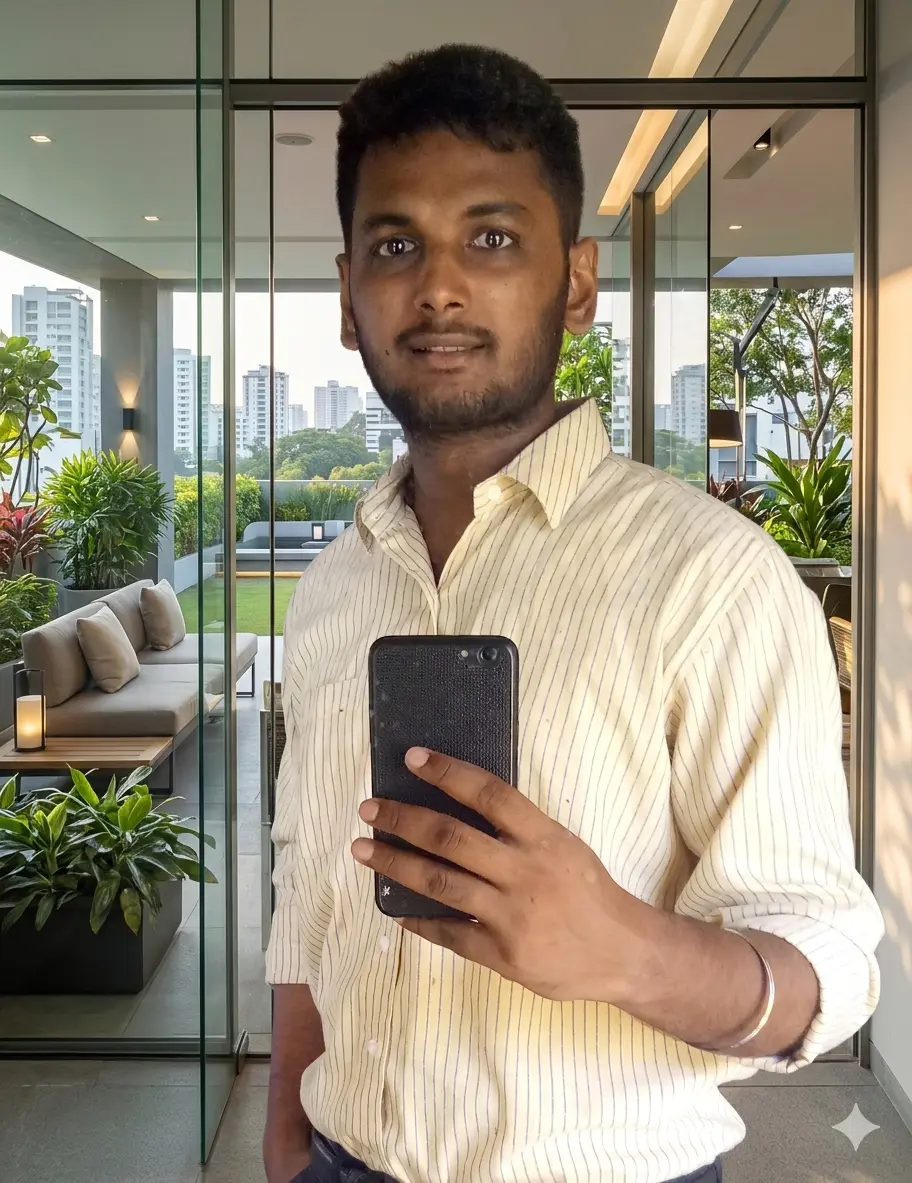
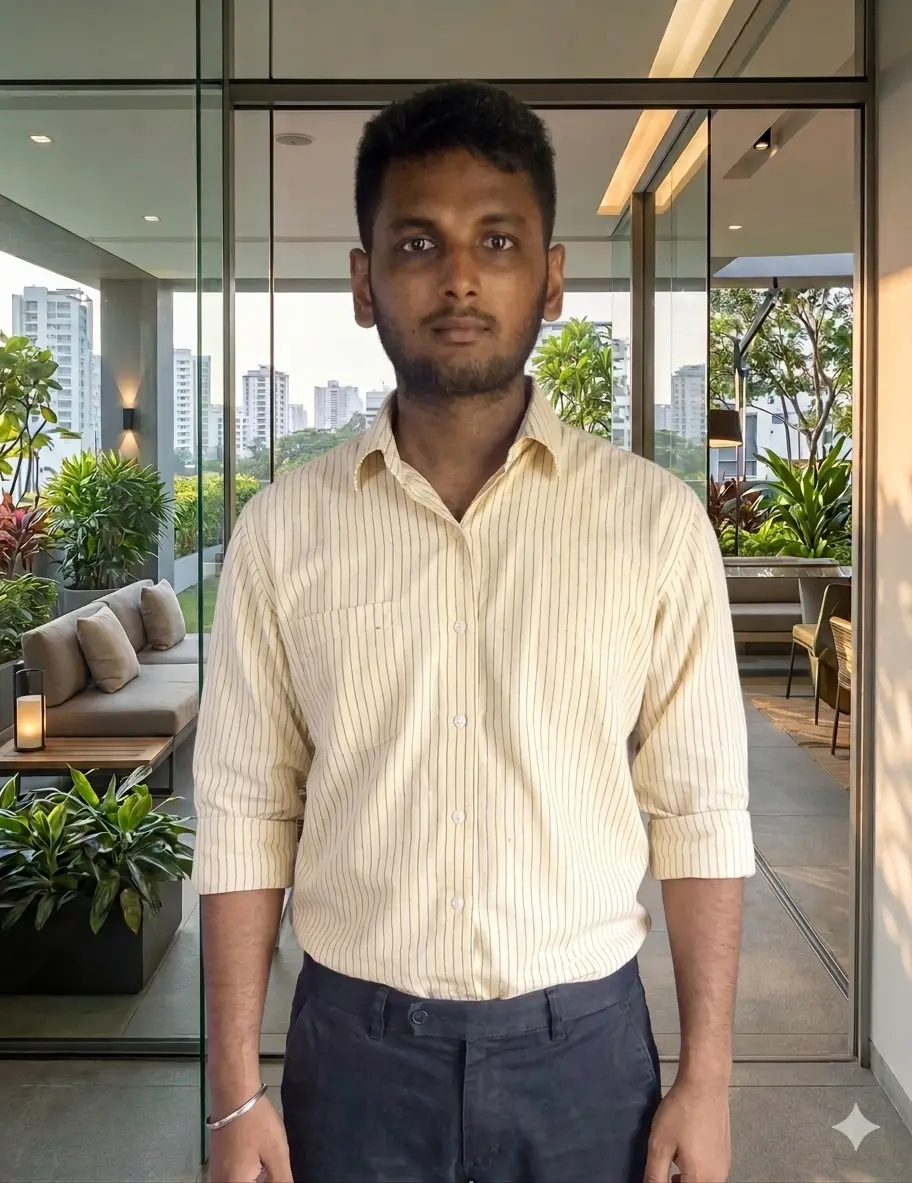
fix: team image updated

diff --git a/components/BrandCarousel.tsx b/components/BrandCarousel.tsx
@@ -140,7 +140,7 @@ const brandLogos = [
   "/branding/godrej.png",
 ];
 
-export default function BrandCarousel({ speed = 0.5 }: { speed?: number }) {
+export default function BrandCarousel({ speed = 0.8 }: { speed?: number }) {
   const trackRef = useRef<HTMLDivElement | null>(null);
   const animationRef = useRef<number | null>(null);
   const offsetRef = useRef(0);
@@ -213,8 +213,8 @@ export default function BrandCarousel({ speed = 0.5 }: { speed?: number }) {
           aria-label="Brand partners carousel"
         >
           {/* Fade edges */}
-          <div className="pointer-events-none absolute left-0 top-0 h-full w-24 bg-gradient-to-r from-[#0a0a0a] to-transparent z-10" />
-          <div className="pointer-events-none absolute right-0 top-0 h-full w-24 bg-gradient-to-l from-[#0a0a0a] to-transparent z-10" />
+          <div className="pointer-events-none absolute left-0 top-0 h-full w-16 md:w-24 bg-gradient-to-r from-[#0a0a0a] to-transparent z-10" />
+          <div className="pointer-events-none absolute right-0 top-0 h-full w-16 md:w-24 bg-gradient-to-l from-[#0a0a0a] to-transparent z-10" />
 
           {/* Track — NO framer-motion, direct DOM transform for smoothness */}
           <div
@@ -225,17 +225,17 @@ export default function BrandCarousel({ speed = 0.5 }: { speed?: number }) {
             {[...brandLogos, ...brandLogos].map((logo, idx) => (
               <div
                 key={idx}
-                className="inline-flex items-center justify-center min-w-[100px] min-h-[80px] px-4 py-3 border border-white/10 hover:border-[#c8a97e]/40 transition-colors duration-300 bg-white/[0.03] flex-shrink-0"
+                className="inline-flex items-center justify-center w-[160px] h-[100px] px-6 py-4 border border-[#c8a97e]/20 hover:border-[#c8a97e]/50 transition-all duration-300 bg-[#f8f6f1] flex-shrink-0 rounded-sm"
               >
-                <Image
-                  src={logo}
-                  alt={`Brand ${(idx % brandLogos.length) + 1}`}
-                  width={80}
-                  height={50}
-                  style={{ objectFit: "contain" }}
-                  className=""
-                  priority={idx < brandLogos.length}
-                />
+                <div className="relative w-full h-full flex items-center justify-center">
+                  <Image
+                    src={logo}
+                    alt={`Brand ${(idx % brandLogos.length) + 1}`}
+                    fill
+                    className="object-contain p-2"
+                    priority={idx < brandLogos.length}
+                  />
+                </div>
               </div>
             ))}
           </div>

diff --git a/app/about/AboutPageClient.tsx b/app/about/AboutPageClient.tsx
@@ -266,10 +266,10 @@ export default function AboutPage() {
               },
               {
                 name: "Kunjithapadham",
-                role: "Internal Architect",
+                role: "Engineer",
                 desc: "Creates building plans and designs. Works on layouts, space usage, and structure planning, ensuring everything is functional, compliant, and easy to execute.",
                 image: "/team/Kunjithapadham.webp",
-                alt: "Kunjithapadham - Interior Architect, Eswari Builders Pondicherry",
+                alt: "Kunjithapadham - Engineer, Eswari Builders Pondicherry",
               },
               {
                 name: "Madhan Raj",
